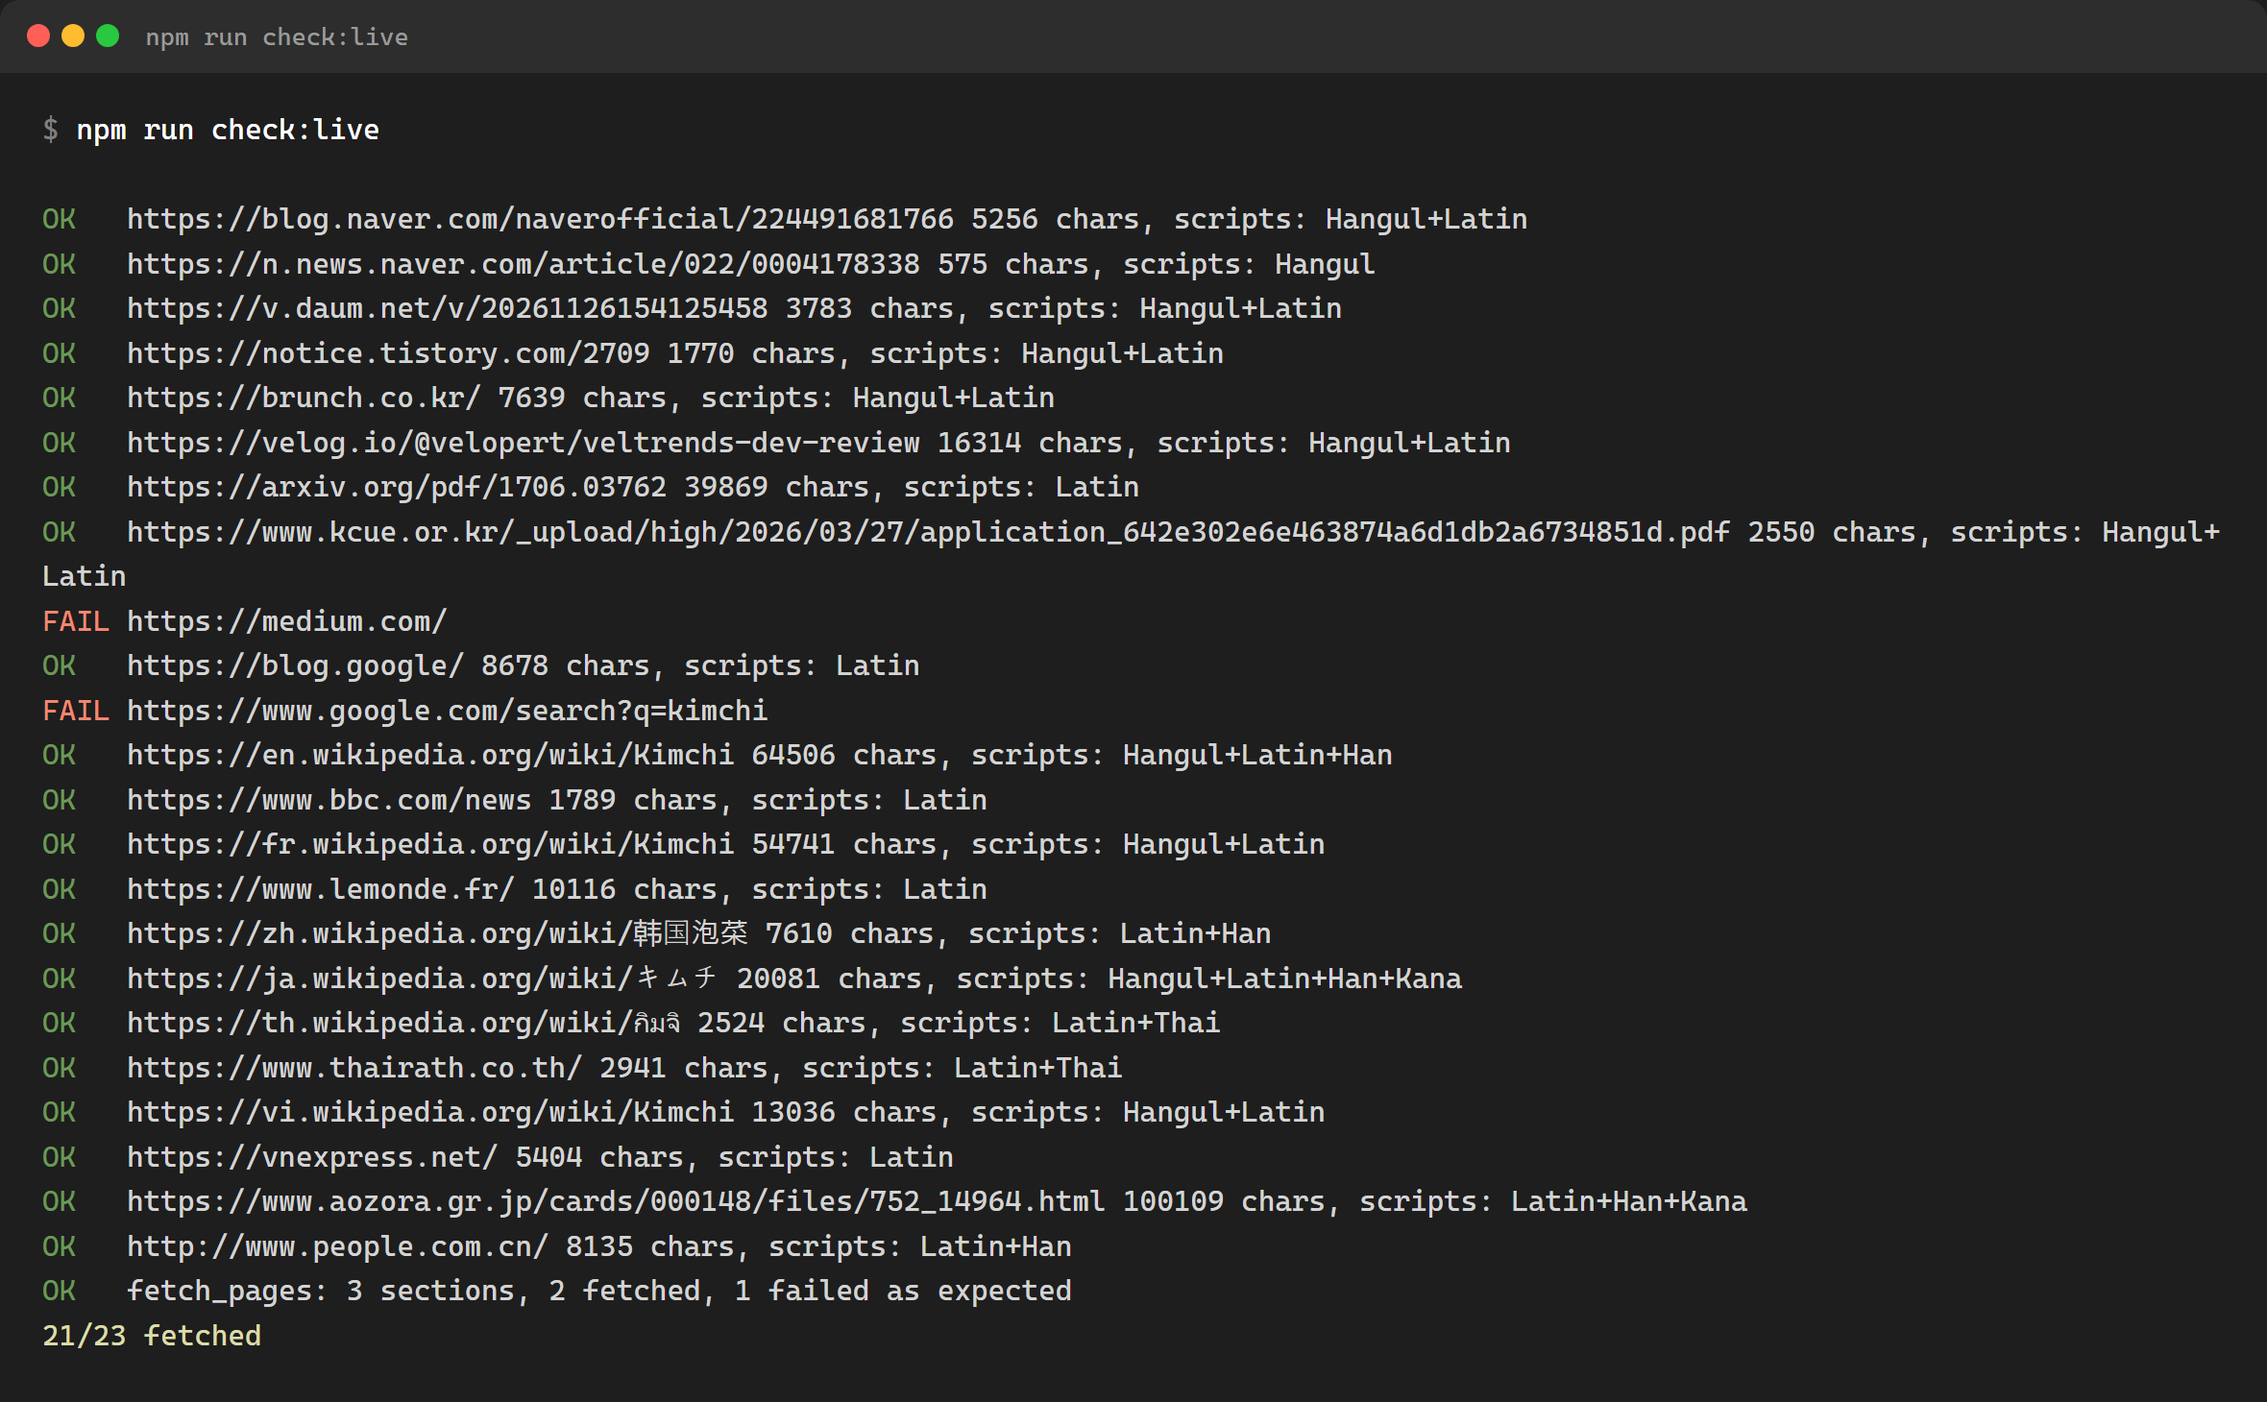
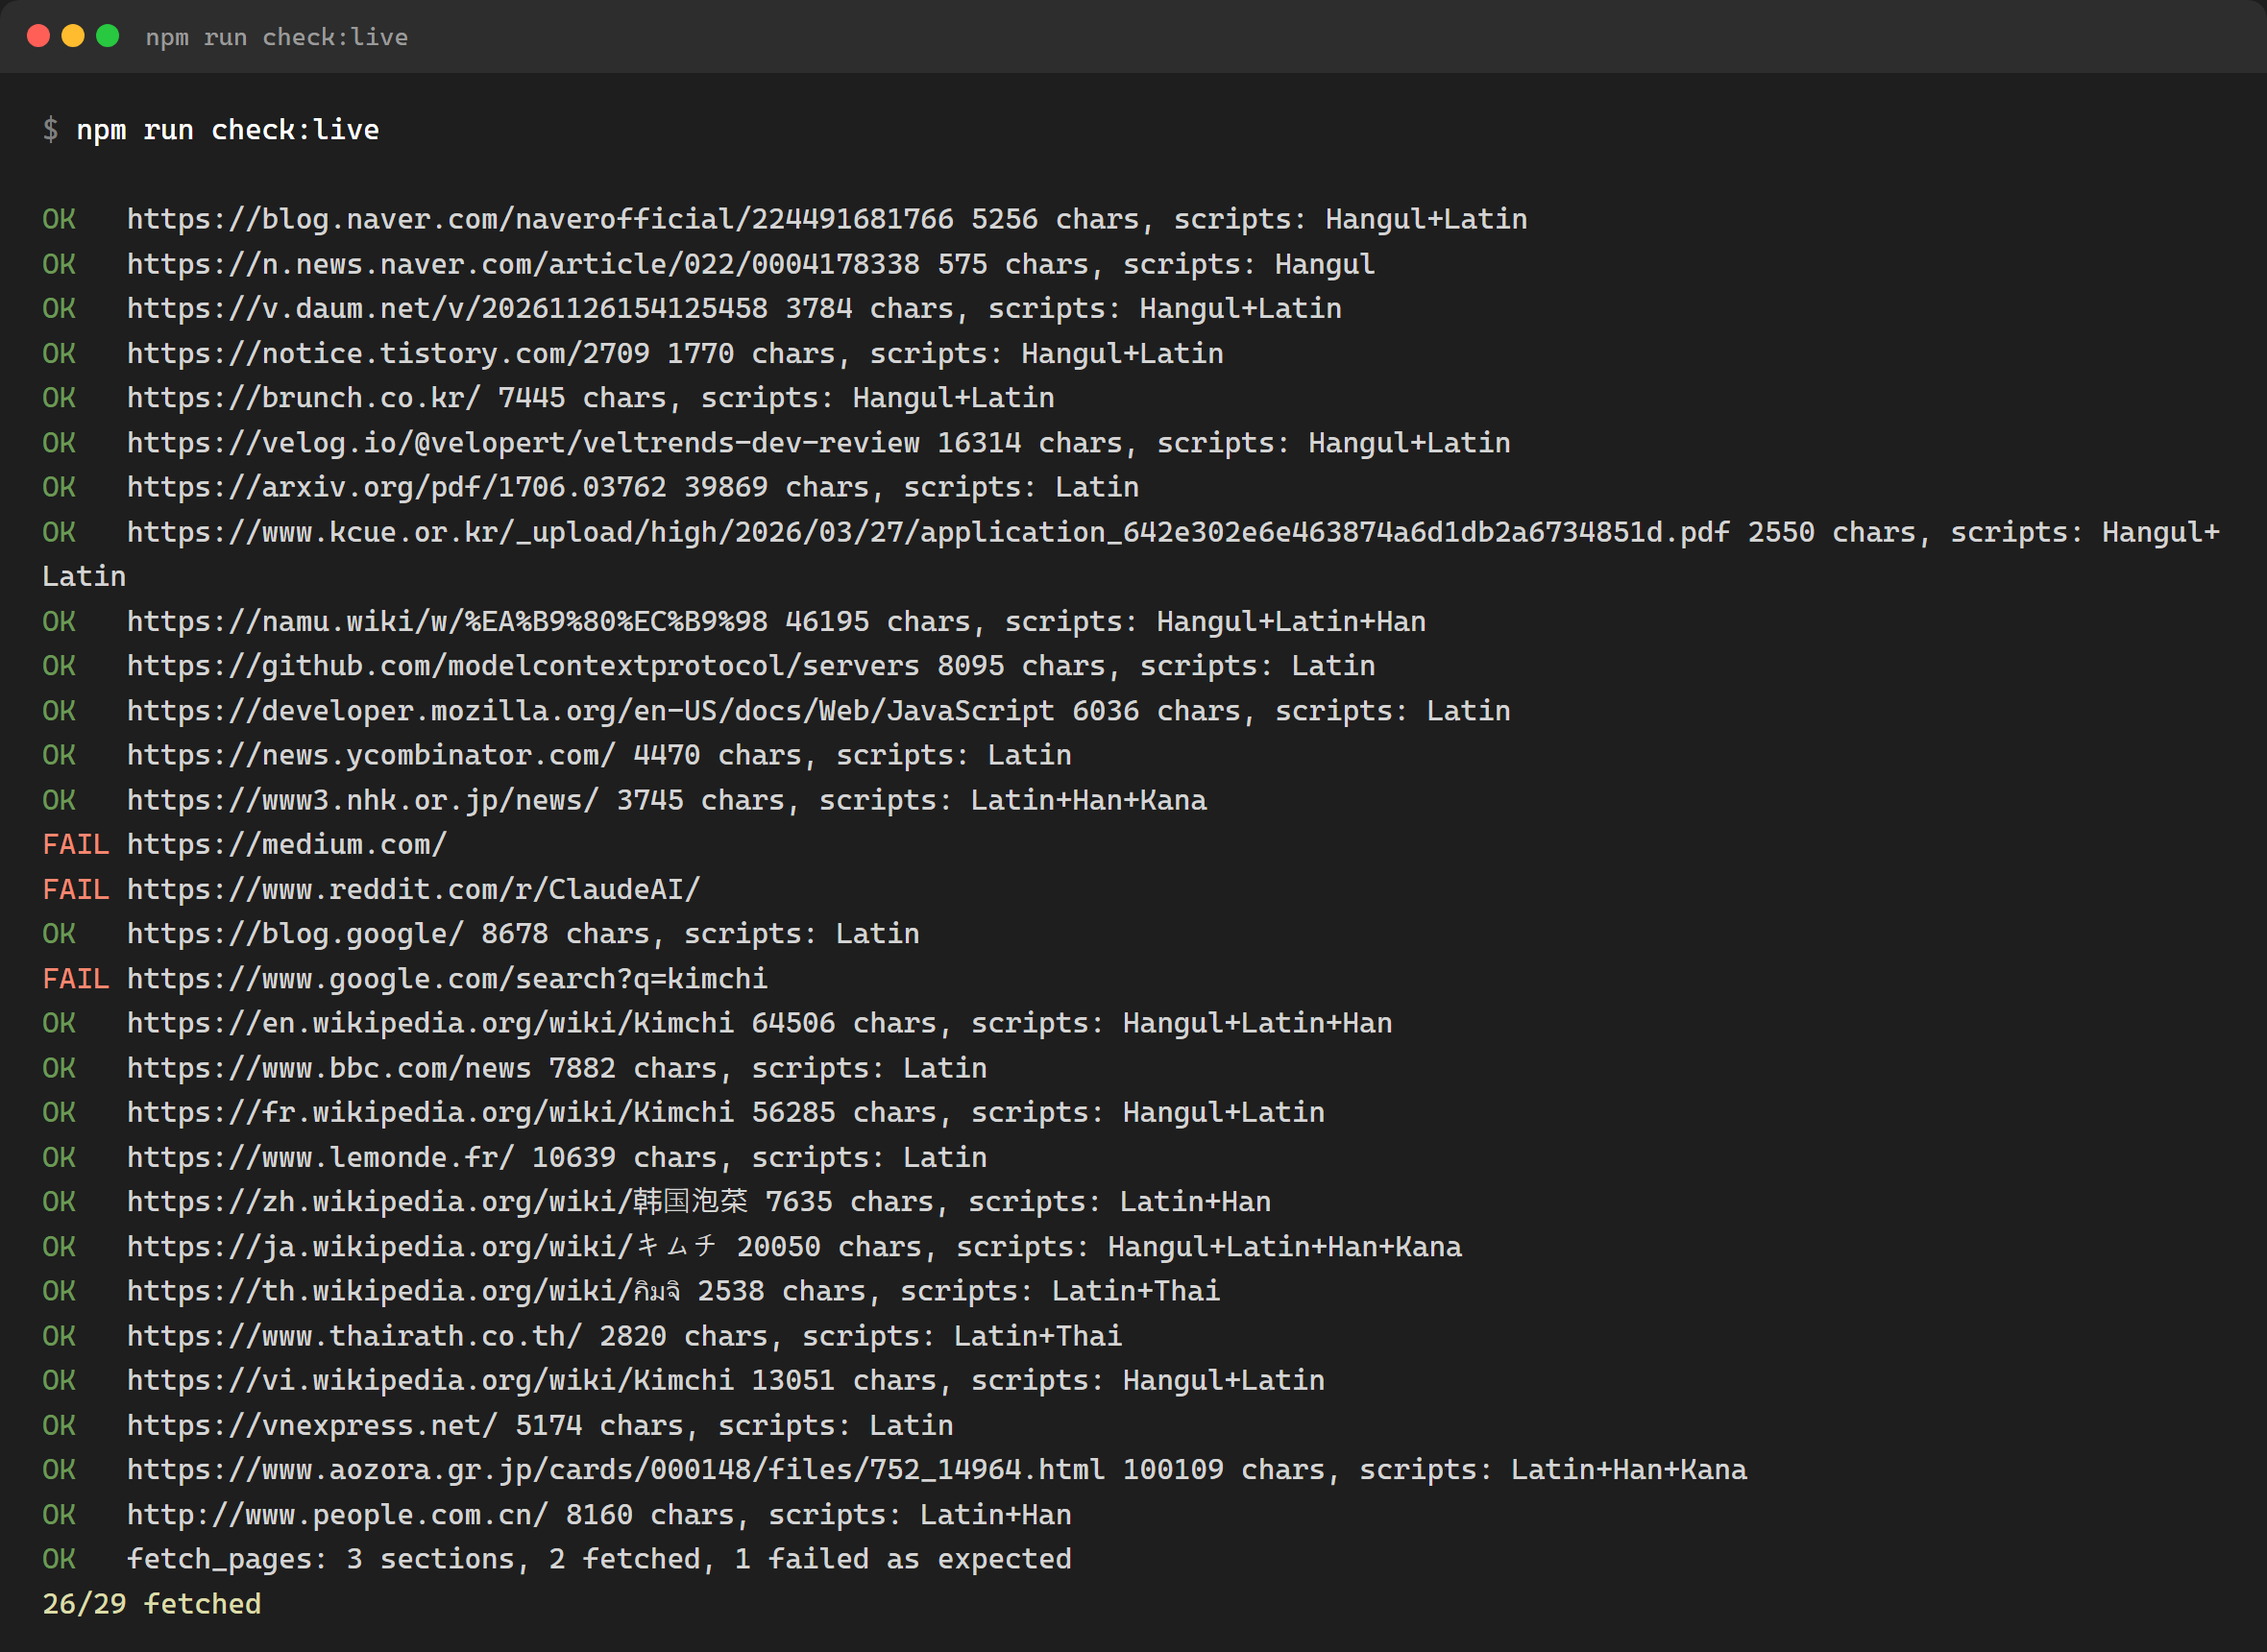
Read Namuwiki articles in full, report Reddit's bot check, survive empty bodies
- Namuwiki: Readability kept one block (3k of 44k chars); a site pick rule
  takes the element holding all stable s-N section headings and drops the
  [편집] links
- Reddit's 'Prove your humanity' page is detected as a bot check
- Empty or fragment HTML (Amazon answers 202 with no body) no longer
  crashes extraction and falls through to the browser retry
- Live check adds Namuwiki, GitHub, MDN, Hacker News, NHK and Reddit
- README support table lists global sites

diff --git a/fixtures/namuwiki.html b/fixtures/namuwiki.html
@@ -1,0 +1,23 @@
+<!DOCTYPE html>
+<!-- Synthetic page that mimics namu.wiki markup (random class names, stable s-N heading ids). Original test content. -->
+<html lang="ko">
+<head><meta charset="utf-8"><title>테스트 문서 - 나무위키</title></head>
+<body>
+<div class="Xa1b2c3d">
+  <div class="Qq9w8e7r"><a href="/">나무위키</a> <a href="/RecentChanges">최근 변경</a> <a href="/random">임의 문서</a></div>
+  <div class="Zz0y9x8w">
+    <h1 class="Hh1"><a href="/w/test">테스트 문서</a></h1>
+    <div class="Mm5n6b7v">최근 수정 시각: 2026-11-20</div>
+    <div class="Pp1o2i3u">
+      <div class="Ll4k5j6h"><h2 class="Rr1"><a id="s-1" href="#toc">1.</a> <span id="개요">개요<span class="Ee1"><a href="/edit/test?section=1" rel="nofollow">[편집]</a></span></span></h2></div>
+      <div class="Cc7v8b9n"><div class="Ww1"><div class="Ww2">첫 번째 문단은 개요입니다. 이 문서는 나무위키 구조를 흉내 낸 테스트 문서이며, 본문 추출기가 모든 문단을 빠짐없이 가져오는지 확인합니다.</div></div></div>
+      <div class="Ll4k5j6h"><h2 class="Rr1"><a id="s-2" href="#toc">2.</a> <span id="역사">역사<span class="Ee1"><a href="/edit/test?section=2" rel="nofollow">[편집]</a></span></span></h2></div>
+      <div class="Cc7v8b9n"><div class="Ww1"><div class="Ww2">두 번째 문단은 역사입니다. 같은 모양의 블록이 여러 개 이어질 때 Readability가 한 블록만 고르는 문제를 재현하기 위한 내용입니다.</div></div></div>
+      <div class="Ll4k5j6h"><h3 class="Rr1"><a id="s-2.1" href="#toc">2.1.</a> <span id="세부">세부<span class="Ee1"><a href="/edit/test?section=3" rel="nofollow">[편집]</a></span></span></h3></div>
+      <div class="Cc7v8b9n"><div class="Ww1"><div class="Ww2">마지막 문단입니다. 여기까지 모두 결과에 들어 있어야 합니다.</div></div></div>
+    </div>
+  </div>
+  <div class="Ss3d4f5g">사이드바: 실시간 검색어 인기 문서 광고 영역</div>
+</div>
+</body>
+</html>

diff --git a/README.md b/README.md
@@ -256,18 +256,19 @@ Source: 사이트 | Author: 작성자 | Published: 2026-11-25 | URL: https://...
 | 대상 | 상태 |
 |---|---|
 | 네이버 블로그, 네이버 뉴스, 다음 뉴스, 티스토리, 브런치, 벨로그, 다음 카페(공개 글) | ✅ |
-| 위키백과, BBC, 르몽드, 인민망, 타이랏, VnExpress 등 일반 기사·문서 | ✅ |
+| 위키백과(모든 언어), 나무위키, GitHub, MDN·Python 문서, Hacker News, Google 블로그 | ✅ |
+| BBC, 르몽드, 슈피겔, NHK, 인민망, 타이랏, VnExpress 등 해외 뉴스 | ✅ |
 | PDF (영어·한국어 확인, 페이지별 구분) | ✅ |
 | JavaScript로 그려지는 페이지 | ✅ Chrome·Edge가 있으면 자동 |
 | EUC-KR, Shift_JIS, EUC-JP, GBK/GB2312, Big5, TIS-620, windows-1258 | ✅ |
 | 네이버 카페 | ⚠ 로그인 없이 공개된 글만. 로그인·회원 전용 글은 읽지 않고 그렇다고 알려 줍니다 (내 계정을 쓰지 않음) |
-| Medium, Stack Overflow 등 봇 확인(Cloudflare)을 거는 사이트 | ❌ 우회하지 않습니다 |
+| Medium, Stack Overflow, Reddit 등 봇 확인을 거는 사이트 | ❌ 우회하지 않습니다 |
 | Google 검색 결과 페이지 | ❌ Google이 자동 접근을 막습니다. Claude의 웹 검색을 쓰세요 |
 | YouTube 자막, 로그인이 필요한 글, 스캔 PDF, 이미지·동영상 | ❌ |
 
-실제 사이트 점검 결과 (`npm run check:live`, 2026-11-26) — Medium(봇 확인)과 Google 검색은 의도적으로 거절합니다:
+실제 사이트 점검 결과 (`npm run check:live`, 2026-11-27) — Medium·Reddit(봇 확인)과 Google 검색은 의도적으로 거절합니다:
 
-![국내외 23개 사이트 점검 결과](docs/images/live.png)
+![국내외 29개 사이트 점검 결과](docs/images/live.png)
 
 ## 보안
 
@@ -336,6 +337,6 @@ MIT
 
 **Safety:** refuses localhost, private/link-local networks and cloud metadata addresses (re-checked on every redirect and browser request), reads at most 5 MB per page and 30 MB per PDF, and accepts HTML/text/PDF only.
 
-**Not supported:** Google Search result pages, sites behind bot checks (e.g. Medium, Stack Overflow), YouTube transcripts, pages behind a login (Naver Cafe posts are read only when public, otherwise reported), scanned PDFs.
+**Not supported:** Google Search result pages, sites behind bot checks (e.g. Medium, Stack Overflow, Reddit), YouTube transcripts, pages behind a login (Naver Cafe posts are read only when public, otherwise reported), scanned PDFs.
 
 Development: `npm test` (offline), `npm run check:live` (real sites). Site-specific rules live in `sites.mjs`. License: MIT.
